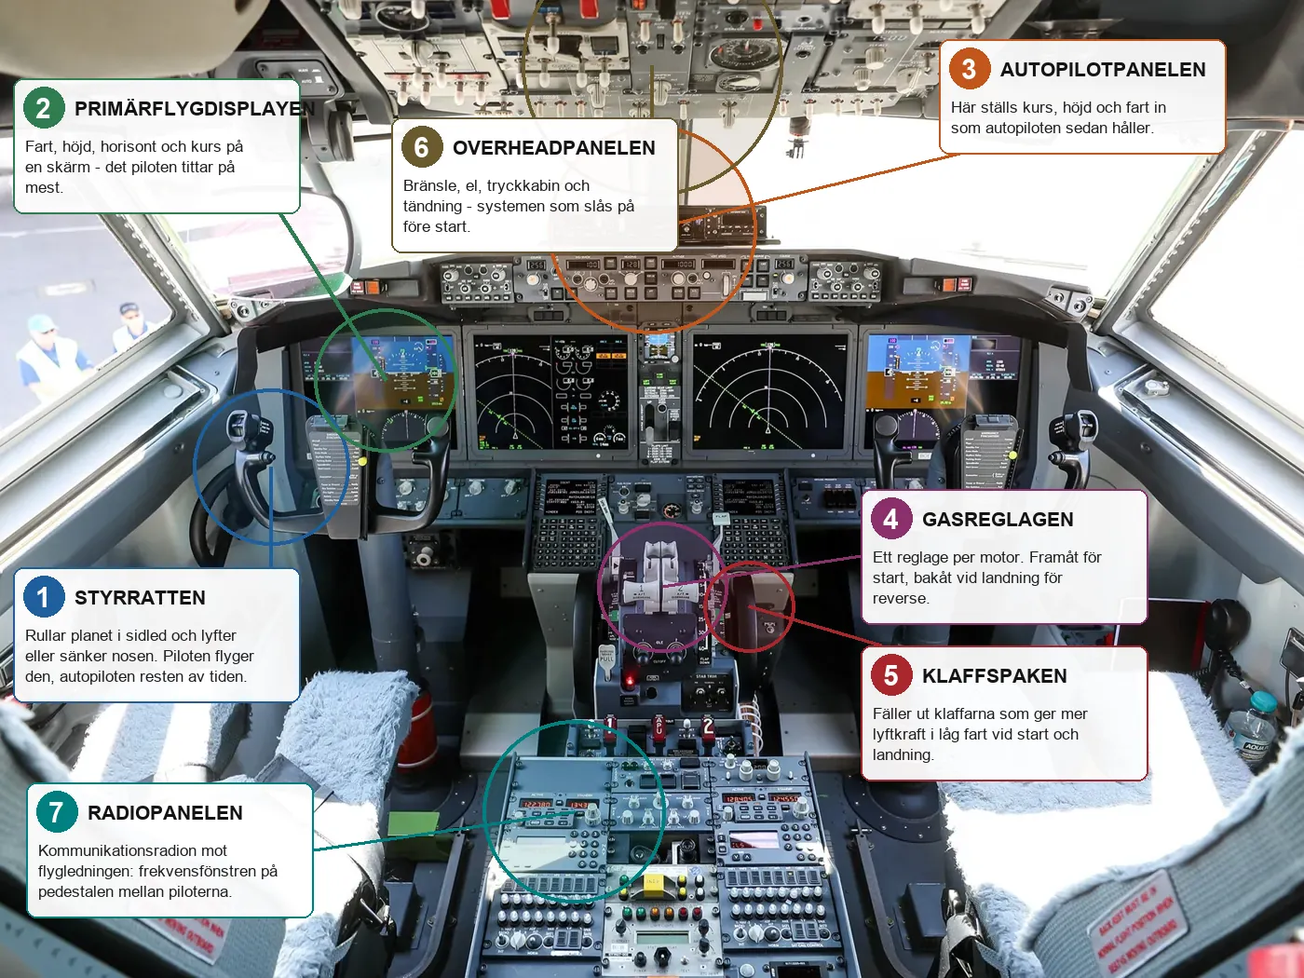
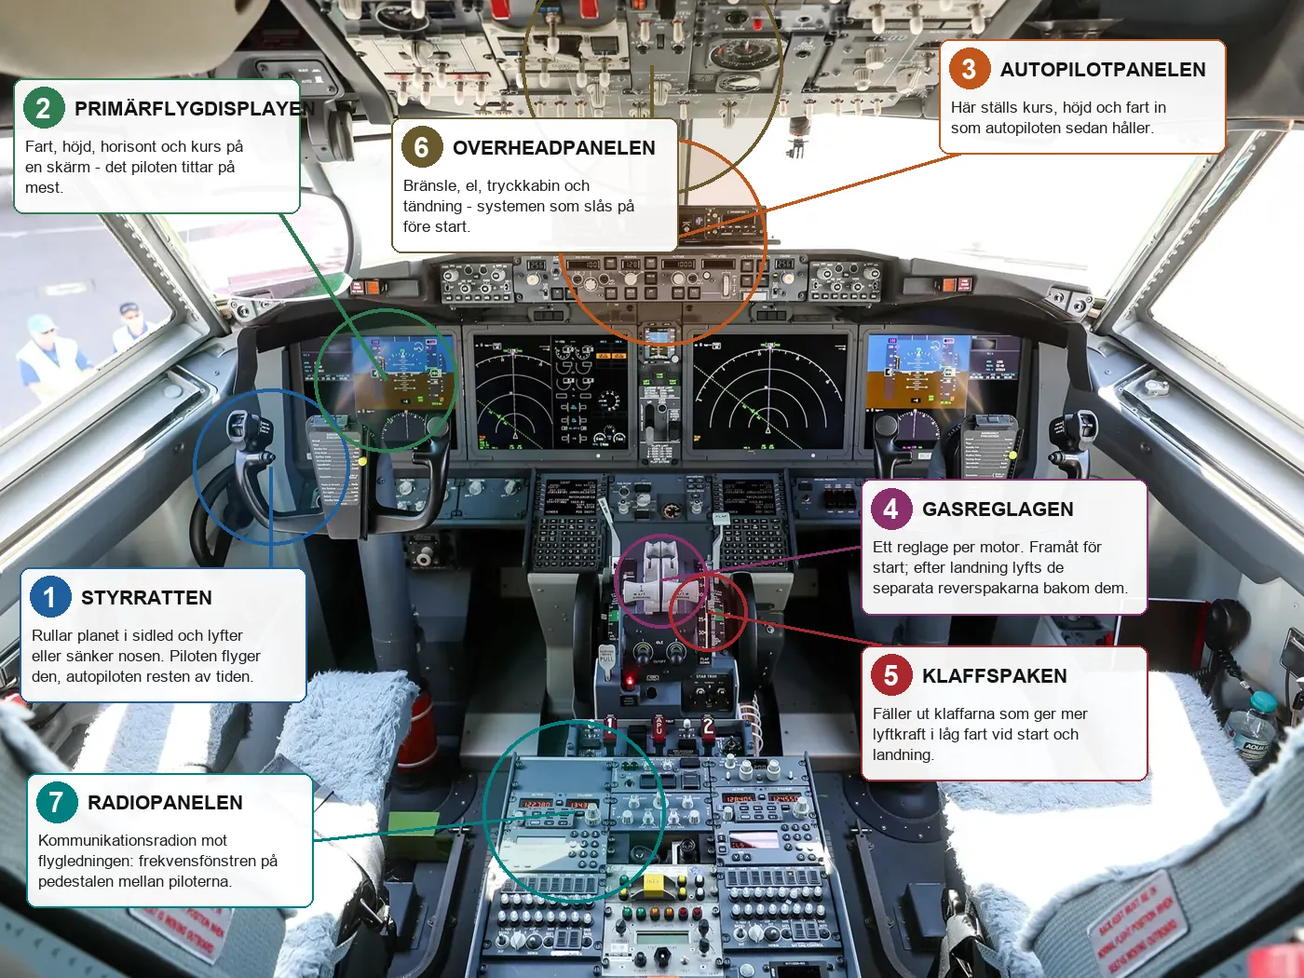
Pekspelen träffar rätt: tåghyttens punkter beskriver det som faktiskt sitter där, klaffspaken flyttad till klaffkulissen, nya facitbilder; fem fotbollsspelare kan nu vara rätt svar
Claude-Session: https://claude.ai/code/session_01W17UfEYKZqTsviz1FMLvRY

diff --git a/src/data/jobs.ts b/src/data/jobs.ts
@@ -416,22 +416,22 @@ export const JOBS: Job[] = [
           { id: 'korreglage', namn: 'Körreglaget', x: 64.6, y: 56.2, r: 6, forklaring: 'Det stora reglaget på höger sida styr tågets dragkraft och acceleration.' },
           { id: 'bromsreglage', namn: 'Bromsreglaget', x: 33.2, y: 55.7, r: 5.5, forklaring: 'Reglaget på vänster sida bromsar tåget och reglerar bromsningen.' },
           { id: 'forardisplay', namn: 'Förardisplayen', x: 70, y: 44, r: 7.5, forklaring: 'Den stora mörka skärmen framför föraren visar status och information om tågets system.' },
-          { id: 'dorrkontroller', namn: 'Dörrkontrollerna', x: 9.5, y: 60, r: 6, forklaring: 'Knapparna på vänster sida av panelen öppnar, stänger och kontrollerar tågdörrarna.' },
-          { id: 'tagskydd', namn: 'Tågskyddssystemet', x: 15.5, y: 52, r: 5, forklaring: 'Den mindre displayen med knappsats hjälper föraren att övervaka körningen och följa säkerhetssystemets krav.' },
-          { id: 'pantograf', namn: 'Strömförsörjningskontrollerna', x: 93, y: 59, r: 7.5, forklaring: 'Reglagen och indikeringarna på höger sida hanterar och övervakar tågets elektriska kraftförsörjning, till exempel strömavtagaren.' },
+          { id: 'hastighetsmatare', namn: 'Hastighetsmätaren', x: 45.4, y: 44.4, r: 5, forklaring: 'Visaren och den digitala siffran mitt i panelen visar farten. Signalerna gäller ändå, men här läser du av dem.' },
+          { id: 'tagskydd', namn: 'Tågskyddssystemet', x: 56.5, y: 40.5, r: 5, forklaring: 'Den grå panelen med lampor och kvitteringsknapp larmar om du kör mot stopp eller för fort, och bromsar själv om du inte svarar.' },
+          { id: 'motorstart', namn: 'Motorpanelen', x: 94, y: 58, r: 6, forklaring: 'Knapparna märkta ENGINE startar och stoppar dieselmotorn. Det här tåget har ingen strömavtagare - kraften kommer från motorn under golvet.' },
         ],
         fragor: [
           { text: 'Var är bromsen?', svar: 'bromsreglage' },
           { text: 'Tåget ska iväg. Var ger du dragkraft?', svar: 'korreglage' },
-          { text: 'Öppna dörrarna. Var sitter kontrollerna?', svar: 'dorrkontroller' },
+          { text: 'Hur fort går tåget just nu? Var läser du av det?', svar: 'hastighetsmatare' },
           { text: 'Var ser föraren tågets status och systeminformation?', svar: 'forardisplay' },
-          { text: 'Var övervakas att föraren följer säkerhetssystemets krav?', svar: 'tagskydd' },
-          { text: 'Strömavtagaren ska upp. Var hanteras kraftförsörjningen?', svar: 'pantograf' },
+          { text: 'Du passerar en signal för fort. Vilken panel larmar och bromsar?', svar: 'tagskydd' },
+          { text: 'Motorn ska startas inför avgång. Var gör du det?', svar: 'motorstart' },
         ],
       },
     },
     scene:
-      'Hytten är tyst så när som på ATC-pipet. Nästa signal om fyra kilometer, och den är gul.',
+      'Hytten är tyst så när som på säkerhetssystemets pip. Nästa signal om fyra kilometer, och den är gul.',
   },
   {
     id: 'taxichauffor',
@@ -1821,7 +1821,7 @@ export const JOBS: Job[] = [
     minigame: {
       kind: 'lagval',
       title: 'Rätt spelare i rätt landslag',
-      brief: 'Flaggan visar landslaget. Fyra spelare står ovanför. Peka ut den som spelar för det laget.',
+      brief: 'Flaggan visar landslaget. Fyra spelare står ovanför. Peka ut den som spelar eller har spelat för det landslaget.',
       items: ['Landslagen'],
       lagval: {
         antal: 8,
@@ -1895,6 +1895,11 @@ export const JOBS: Job[] = [
           { lag: 'flagga-sverige', ratt: 'fotboll-kulusevski', fel: ['fotboll-eriksen', 'fotboll-haaland', 'fotboll-rooney'] },
           { lag: 'flagga-spanien', ratt: 'fotboll-xavi', fel: ['fotboll-ronaldinho', 'fotboll-pirlo', 'fotboll-figo'] },
           { lag: 'flagga-england', ratt: 'fotboll-rooney', fel: ['fotboll-kulusevski', 'fotboll-neuer', 'fotboll-eriksen'] },
+          { lag: 'flagga-sverige', ratt: 'fotboll-ljungberg', fel: ['fotboll-beckham', 'fotboll-eriksen', 'fotboll-vandijk'] },
+          { lag: 'flagga-frankrike', ratt: 'fotboll-henry', fel: ['fotboll-rooney', 'fotboll-larsson', 'fotboll-figo'] },
+          { lag: 'flagga-portugal', ratt: 'fotboll-figo', fel: ['fotboll-xavi', 'fotboll-zidane', 'fotboll-pirlo'] },
+          { lag: 'flagga-italien', ratt: 'fotboll-pirlo', fel: ['fotboll-iniesta', 'fotboll-henry', 'fotboll-ronaldinho'] },
+          { lag: 'flagga-brasilien', ratt: 'fotboll-ronaldinho', fel: ['fotboll-messi', 'fotboll-figo', 'fotboll-iniesta'] },
         ],
       },
     },
@@ -1943,7 +1948,7 @@ export const JOBS: Job[] = [
         { text: 'Jag väntar på mitt flyg. Var kan jag sitta ner?', svar: 'station-flyg-1', nastan: ['station-flyg-2', 'sakerhetskontroll', 'bagageband'], fel: 'Där får man inte sitta. Där får man stå i kö.' },
         { text: 'Jag skulle egentligen ta tåget. Var går tågen?', svar: 'station-tag-1', nastan: ['station-flyg-1', 'station-buss-1', 'station-flyg-4'], fel: 'Det gick inga tåg därifrån. Bara plan.' },
         { text: 'Var hittar jag bussarna in till stan?', svar: 'station-buss-1', nastan: ['station-tag-1', 'gate', 'station-flyg-4'], fel: 'Det var inga bussar. Det var ett plan, och det körde inte in till stan.' },
-        { text: 'Jag ska byta i London. Den största flygplatsen där, den med fem terminaler.', svar: 'heathrow', nastan: ['arlanda', 'kontrolltorn', 'station-flyg-4'], fel: 'Därifrån går inget till London. Jag står kvar.' },
+        { text: 'Jag ska byta i London. Den största av stadens flygplatser, den i väster.', svar: 'heathrow', nastan: ['arlanda', 'kontrolltorn', 'station-flyg-4'], fel: 'Därifrån går inget till London. Jag står kvar.' },
       ],
     },
     scene:
@@ -2197,7 +2202,7 @@ export const JOBS: Job[] = [
         { text: 'Jag fick växel i Tokyo och vet inte vad myntet kallas.', svar: 'yenmynt', nastan: ['guldtackor', 'dollarsedlar', 'eurosedlar'], fel: 'Det där får man inte i växel någonstans.' },
         { text: 'Var sitter Sveriges centralbank?', svar: 'riksbanken', nastan: ['bankofengland', 'nyse', 'wallstreet'], fel: 'Det är rätt sorts hus. Fel land.' },
         { text: 'Den gamla damen på Threadneedle Street, Englands centralbank.', svar: 'bankofengland', nastan: ['riksbanken', 'nyse', 'borskrasch1929'], fel: 'Fel land. Damen bor inte där.' },
-        { text: 'Skyskraporna uppifrån. Jag vill köpa våning åttio.', svar: 'manhattan', nastan: ['wallstreet', 'nyse', 'borsgolv'], fel: 'Det finns ingen våning åttio där. Det finns knappt en våning två.' },
+        { text: 'Ön där bankerna har sina huvudkontor. Jag vill köpa våning åttio.', svar: 'manhattan', nastan: ['wallstreet', 'nyse', 'borsgolv'], fel: 'Det finns ingen våning åttio där. Det finns knappt en våning två.' },
       ],
     },
     scene:
@@ -3050,7 +3055,7 @@ export const JOBS: Job[] = [
           { q: 'Vilken druva ger de stora röda vinerna i Bourgogne?', bild: 'rodvin', a: ['Pinot noir', 'Cabernet sauvignon', 'Syrah', 'Merlot'], d: 2, info: 'Pinot noir är tunnskalig och lynnig. I Bordeaux är det cabernet och merlot som gäller, i Rhône syrah.' },
           { q: 'Vad betyder det att ett vin är torrt?', bild: 'vitvin', a: ['Nästan allt socker har jäst till alkohol', 'Det har lagrats på ekfat', 'Det har hög syra', 'Det är gjort på torkade druvor'], d: 1, info: 'Jästen äter sockret. Stoppas jäsningen tidigt blir det kvar - då är vinet halvtorrt eller sött.' },
           { q: 'Vid vilken temperatur bör ett fylligt rött vin serveras?', bild: 'dekanter', a: ['Omkring 16-18 grader', 'Omkring 8 grader', 'Rumstemperatur, 22 grader', 'Omkring 12 grader'], d: 2, info: '"Rumstemperatur" är en regel från tiden då rum var kallare. Ett rött vin på 22 grader smakar sprit.' },
-          { q: 'Vad är korkfel, det man kontrollerar när sommeliern luktar på korken?', bild: 'kork', a: ['Ämnet TCA från korken ger mögel- och källardoft', 'Korken har torkat och släppt in luft', 'Vinet har frusit', 'Korken smulas sönder'], d: 2, info: 'Trikloranisol känns i ofattbart små mängder. Skruvkork infördes bland annat för att slippa det - inte för att vinet är billigt.' },
+          { q: 'Vad är korkfel, det man letar efter när man luktar på vinet?', bild: 'kork', a: ['Ämnet TCA från korken ger mögel- och källardoft', 'Korken har torkat och släppt in luft', 'Vinet har frusit', 'Korken smulas sönder'], d: 2, info: 'Trikloranisol känns i ofattbart små mängder, och känns i vinet - att lukta på korken är mest ritual. Skruvkork infördes bland annat för att slippa TCA, inte för att vinet är billigt.' },
           { q: 'Hur får champagne sina bubblor?', bild: 'champagne', a: ['En andra jäsning i flaskan', 'Kolsyra pumpas in', 'Druvorna skördas ofärdiga', 'Vinet lagras i tryckkärl'], d: 2, info: 'Metoden kallas traditionell: socker och jäst tillsätts i flaskan, som sedan roteras och fryses i halsen för att få ut fällningen.' },
           { q: 'Varför dekanterar man ett ungt, kraftigt rödvin?', bild: 'dekanter', a: ['Luften mjukar upp tanninerna och lyfter doften', 'För att kyla det', 'För att ta bort alkohol', 'För att blanda in vatten'], d: 2, info: 'Gamla viner dekanteras av en annan orsak: för att skilja vinet från fällningen. Då försiktigt, inte för luft.' },
           { q: 'Vad heter det italienska vinet från Piemonte på nebbiolodruvan, ofta kallat vinernas kung?', bild: 'vindruvor', a: ['Barolo', 'Chianti', 'Amarone', 'Prosecco'], d: 2, info: 'Barolo måste lagras minst 38 månader. Chianti är Toscana och sangiovese, Amarone Veneto på torkade druvor.' },
@@ -3115,7 +3120,7 @@ export const JOBS: Job[] = [
       kind: 'lagval',
       title: 'Rätt spelare i rätt lag',
       brief:
-        'Lagmärket står i mitten och fyra spelare väntar ovanför. Vem av dem hör hemma i laget? Svenska och nordamerikanska lag om vartannat, ingen klocka.',
+        'Lagmärket står i mitten och fyra spelare väntar ovanför. Vem av dem hör hemma i laget? Mest NHL-märken, med tre svenska klubbar bland dem, ingen klocka.',
       items: ['Laguppställningen'],
       lagval: {
         antal: 8,
@@ -3221,7 +3226,7 @@ export const JOBS: Job[] = [
         { text: 'De vita bussarna. Mördad i Jerusalem som FN:s medlare.', svar: 'folkebernadotte', nastan: ['raoulwallenberg', 'daghammarskjold', 'carlbildt'], fel: 'Han där har inte kört buss. Möjligen åkt.' },
         { text: 'Generalsekreteraren från Ghana. Fredspris 2001, tillsammans med hela FN.', svar: 'kofiannan', nastan: ['bankimoon', 'guterres', 'janeliasson'], fel: 'Ghana, sa jag. Han där är inte ens från rätt kontinent.' },
         { text: 'Generalsekreteraren från Sydkorea, före den nuvarande.', svar: 'bankimoon', nastan: ['kofiannan', 'guterres', 'hansblix'], fel: 'Sydkorea. Titta på gästlistan igen.' },
-        { text: 'Generalsekreterare 2017–2026. Portugis, förre premiärminister, tog över efter koreanen.', svar: 'guterres', nastan: ['kofiannan', 'bankimoon', 'carlbildt'], fel: 'Han där sitter inte i FN-skrapan. Han sitter mest i tv-soffor.' },
+        { text: 'Generalsekreterare sedan 2017. Portugis, förre premiärminister, tog över efter koreanen.', svar: 'guterres', nastan: ['kofiannan', 'bankimoon', 'carlbildt'], fel: 'Han där sitter inte i FN-skrapan. Han sitter mest i tv-soffor.' },
         { text: 'Smög till Peking 1971 med låtsad magsjuka. Nixons säkerhetsrådgivare, tysk brytning.', svar: 'kissingermao', nastan: ['hansblix', 'janeliasson', 'carlbildt'], fel: 'Ingen tysk brytning. Ingen hemlig resa. Fel.' },
         { text: 'Nedrustningsförhandlaren som fick fredspriset 1982. Gift med en nationalekonom.', svar: 'alvamyrdal', nastan: ['margotwallstrom', 'albright', 'raoulwallenberg'], fel: 'Inte en enda missil förhandlad. Fel gäst.' },
         { text: 'Utrikesminister, FN:s vice generalsekreterare och ordförande i generalförsamlingen. Göteborgare.', svar: 'janeliasson', nastan: ['carlbildt', 'hansblix', 'daghammarskjold'], fel: 'Inte göteborgare. Inte vice något heller.' },
@@ -3396,9 +3401,9 @@ export const JOBS: Job[] = [
         punkter: [
           { id: 'styrratt', namn: 'Styrratten', x: 20.8, y: 47.8, r: 6, forklaring: 'Rullar planet i sidled och lyfter eller sänker nosen. Piloten flyger den, autopiloten resten av tiden.' },
           { id: 'pfd', namn: 'Primärflygdisplayen', x: 29.6, y: 38.9, r: 5.5, forklaring: 'Fart, höjd, horisont och kurs på en skärm - det piloten tittar på mest.' },
-          { id: 'mcp', namn: 'Autopilotpanelen', x: 50, y: 23.5, r: 8, forklaring: 'Här ställs kurs, höjd och fart in som autopiloten sedan håller.' },
-          { id: 'gasreglage', namn: 'Gasreglagen', x: 50.8, y: 60, r: 5, forklaring: 'Ett reglage per motor. Framåt för start, bakåt vid landning för reverse.' },
-          { id: 'klaffspak', namn: 'Klaffspaken', x: 57.5, y: 62, r: 3.5, forklaring: 'Fäller ut klaffarna som ger mer lyftkraft i låg fart vid start och landning.' },
+          { id: 'mcp', namn: 'Autopilotpanelen', x: 50.8, y: 24.7, r: 8, forklaring: 'Här ställs kurs, höjd och fart in som autopiloten sedan håller.' },
+          { id: 'gasreglage', namn: 'Gasreglagen', x: 50.7, y: 59.4, r: 3.6, forklaring: 'Ett reglage per motor. Framåt för start; efter landning lyfts de separata reverspakarna bakom dem.' },
+          { id: 'klaffspak', namn: 'Klaffspaken', x: 54.3, y: 62.6, r: 3, forklaring: 'Fäller ut klaffarna som ger mer lyftkraft i låg fart vid start och landning.' },
           { id: 'overhead', namn: 'Overheadpanelen', x: 50, y: 6.7, r: 10, forklaring: 'Bränsle, el, tryckkabin och tändning - systemen som slås på före start.' },
           { id: 'radio', namn: 'Radiopanelen', x: 44, y: 83, r: 7, forklaring: 'Kommunikationsradion mot flygledningen: frekvensfönstren på pedestalen mellan piloterna.' },
         ],
@@ -3476,7 +3481,7 @@ export const JOBS: Job[] = [
           { bild: 'kantarell', namn: 'Kantarell', svar: 'atlig', info: 'Äggul, tjock, med gaffelgrenade åsar som löper ner på foten, doftar aprikos. Förväxlas med narrkantarell, som är orangeare och har tunna, riktiga skivor.' },
           { bild: 'karljohanpor', namn: 'Karljohan', svar: 'atlig', info: 'Brun hatt, tjock ljus fot med vitt nät upptill, vita till gulgröna porer, aldrig skivor. Förväxlas med gallsopp, som är ofarlig men förstör grytan med sin beska.' },
           { bild: 'trattkantarell2', namn: 'Trattkantarell', svar: 'atlig', info: 'Liten, gulbrun hatt med navel, ihålig gul fot och glesa åsar. Växer i mängd i mossig granskog sent på hösten. Se upp med toppig giftspindling på samma mark.' },
-          { bild: 'taggsvamp2', namn: 'Blek taggsvamp', svar: 'atlig', info: 'Gräddvit, ojämn hatt med mjuka taggar i stället för skivor på undersidan. Ingen giftig art har taggar - därför nybörjarens säkraste svamp.' },
+          { bild: 'taggsvamp2', namn: 'Blek taggsvamp', svar: 'atlig', info: 'Gräddvit, ojämn hatt med mjuka taggar i stället för skivor på undersidan. Ingen svensk taggsvamp är dödligt giftig - några är bara sträva att äta - därför nybörjarens säkraste grupp.' },
           { bild: 'smorsopp', namn: 'Smörsopp', svar: 'atlig', info: 'Brun, slemmig hatt under tall, ring på foten, gula porer. Ätlig sedan det hala skinnet dragits av. Kan ge lös mage om man är känslig.' },
           { bild: 'trumpetsvamp', namn: 'Rödgul trumpetsvamp', svar: 'atlig', info: 'Tunn, brun tratt på klargul, ihålig fot, nästan slät undersida. Växer i fuktig mossa och myrkanter. Liknar trattkantarellen och används på samma sätt.' },
           { bild: 'fjallskivling2', namn: 'Stolt fjällskivling', svar: 'atlig', info: 'Stor, brun fjällig hatt på hög fot med ormskinnsmönster och lös ring som går att flytta. Hatten under tio centimeter kan vara en giftig liten fjällskivling.' },

diff --git a/src/data/uppdrag.ts b/src/data/uppdrag.ts
@@ -24,17 +24,17 @@ export const UPPDRAG: Uppdrag[] = [
   { id: 'dovkatt', titel: 'En döv katt', text: 'Jag vill att du lämnar min döva katt till min syster i {stad}. Hon hör inget, så hon klagar inte. Katten alltså. Du får {belopp} för besväret.', foremal: 'En döv katt i korg', belopp: 5000, dagar: 14, klar: 'Systern tar emot korgen utan ett ord. Katten ser inte förvånad ut. Ingen av dem gör det.' },
   { id: 'surdeg', titel: 'Surdegen', text: 'Min surdeg är från 1987 och måste matas var tredje dag. Min bror i {stad} har mjölet. Ta med den, mata den, lämna den. {belopp}, och du får en bit när den är bakad.', foremal: 'En surdeg från 1987', belopp: 3200, dagar: 12, klar: 'Brodern luktar på burken och nickar. "Hon lever." Du får en brödbit och pengarna, i den ordningen.' },
   { id: 'urna', titel: 'Farfar', text: 'Det här är farfar. Han ville alltid se {stad}, men kom aldrig iväg. Ställ honom på ett café med utsikt och sitt en stund. {belopp}. Han bjuder.', foremal: 'En urna med farfar', belopp: 4000, klar: 'Du sitter en halvtimme med urnan på bordet. Servitrisen frågar inget. Farfar hade gillat det.' },
-  { id: 'nyckel', titel: 'Nyckeln', text: 'Den här nyckeln går till en dörr i {stad}. Jag minns inte vilken. Lämna den till receptionen på Grand Hotel, de vet. {belopp}. Fråga inte vad som finns bakom dörren. Jag vet inte heller.', foremal: 'En nyckel till en okänd dörr', belopp: 2800, klar: 'Receptionisten tar nyckeln, tittar på den länge och säger "äntligen". Sedan inget mer.' },
+  { id: 'nyckel', titel: 'Nyckeln', text: 'Den här nyckeln går till en dörr i {stad}. Jag minns inte vilken. Lämna den i receptionen på stadens äldsta hotell, de vet. {belopp}. Fråga inte vad som finns bakom dörren. Jag vet inte heller.', foremal: 'En nyckel till en okänd dörr', belopp: 2800, klar: 'Receptionisten tar nyckeln, tittar på den länge och säger "äntligen". Sedan inget mer.' },
   { id: 'brev', titel: 'Ett brev', text: 'Ett brev till en kvinna i {stad}. Handskrivet, inget frimärke, ingen adress. Hon heter Margit och sitter oftast på bänken vid stationen. {belopp}. Läs det inte. Jag har redan läst det.', foremal: 'Ett brev till Margit', belopp: 3500, dagar: 10, klar: 'Margit sitter på bänken. Hon läser brevet två gånger, viker ihop det och säger "han har alltid stavat fel". Pengarna ligger i ett kuvert under bänken.' },
   { id: 'kaktus', titel: 'Kaktusen', text: 'Min kaktus tål inte klimatet här. Den mår bättre i {stad}, säger min veterinär, som egentligen är tandläkare. Ta den dit. {belopp}. Vattna inte. Vad du än gör: vattna inte.', foremal: 'En kaktus som inte får vatten', belopp: 2400, klar: 'Kaktusen står i ett fönster i {stad} nu. Den ser likadan ut. Det är poängen med kaktusar.' },
   { id: 'schack', titel: 'Draget', text: 'Jag spelar schack per bud med en man i {stad} sedan 1994. Det är hans tur, men han litar inte på posten. Lämna det här draget personligen: springare f3. {belopp}. Han bjuder på te. Tacka nej till teet.', foremal: 'Ett schackdrag, springare f3', belopp: 3000, klar: 'Mannen tittar på lappen i tio minuter, säger "intressant" och bjuder på te. Du tackar nej. Han ser lättad ut.' },
-  { id: 'stol', titel: 'Stolen', text: 'Min mormors stol ska tillbaka till {stad}, där hon köpte den 1961. Den går att fälla ihop, nästan. {belopp}, för den är tung och du kommer att svära.', foremal: 'En hopfällbar stol som nästan går att fälla', belopp: 6000, dagar: 16, klar: 'Antikhandlaren i {stad} känner igen stolen. "Den här såldes härifrån 1961", säger han, "och ni har haft den sedan dess?" Han köper tillbaka den för priset du får.' },
+  { id: 'stol', titel: 'Stolen', text: 'Min mormors stol ska tillbaka till {stad}, där hon köpte den 1961. Den går att fälla ihop, nästan. {belopp}, för den är tung och du kommer att svära.', foremal: 'En hopfällbar stol som nästan går att fälla', belopp: 6000, dagar: 16, klar: 'Antikhandlaren i {stad} känner igen stolen. "Den här såldes härifrån 1961", säger han. Han ställer den i skyltfönstret, där den stod från början, och betalar ut vad han lovat.' },
   { id: 'papegoja', titel: 'Papegojan', text: 'Papegojan har lärt sig ett ord jag inte kan ha i huset. Min kusin i {stad} tycker att ordet är roligt. Lämna den där. {belopp}. Täck buren när ni passerar tullen.', foremal: 'En papegoja med ett ord', belopp: 4500, dagar: 12, klar: 'Kusinen lyfter täcket. Papegojan säger ordet. Kusinen skrattar så hen får hosta. Ni är alla överens om att det var värt det.' },
   { id: 'bok', titel: 'Bokens sista exemplar', text: 'Det här är sista exemplaret av min diktsamling. Biblioteket i {stad} har beställt det, sedan 2009. Ta det dit innan de ändrar sig. {belopp}. Läs gärna, men inte högt.', foremal: 'Sista exemplaret av en diktsamling', belopp: 2600, klar: 'Bibliotekarien i {stad} letar i datorn i fem minuter. "Ja. 2009. Vi hade nästan gett upp." Boken får en egen hylla, för den är den enda.' },
-  { id: 'paraply', titel: 'Paraplyet', text: 'Jag lånade det här paraplyet av en främling i {stad} för elva år sedan. Hon sa "lämna tillbaka det när du kan". Jag kan nu. Hon står i tobaksaffären vid torget. {belopp}, och min nattsömn.', foremal: 'Ett paraply, lånat 2015', belopp: 2200, klar: 'Kvinnan i tobaksaffären tittar på paraplyet. "Det där är inte mitt." Ni tittar på varandra. Hon tar det ändå. Du får pengarna av dig själv, i förskott, av uppdragsgivaren.' },
+  { id: 'paraply', titel: 'Paraplyet', text: 'Jag lånade det här paraplyet av en främling i {stad} för länge sedan. Hon sa "lämna tillbaka det när du kan". Jag kan nu. Hon står i tobaksaffären vid torget. {belopp}, och min nattsömn.', foremal: 'Ett paraply, lånat av en främling', belopp: 2200, klar: 'Kvinnan i tobaksaffären tittar på paraplyet. "Det där är inte mitt." Ni tittar på varandra. Hon tar det ändå, och räcker dig kuvertet som legat bakom kassan i alla år.' },
   { id: 'kortlek', titel: 'Spader dam', text: 'Kortleken saknar spader dam. Den ligger hos en man i {stad} som förlorade den i ett vad. Hämta inte. Lämna resten av leken hos honom, så är den hel igen. {belopp}. Han kommer att erbjuda dig ett vad. Tacka nej.', foremal: 'En kortlek utan spader dam', belopp: 3100, klar: 'Mannen lägger spader dam överst i leken och ler. "Vill du slå vad om något?" Du tackar nej. Han ser ut att ha förväntat sig det.' },
   { id: 'glasogon', titel: 'Läsglasögonen', text: 'Min mans läsglasögon ligger kvar i {stad} sedan vår resa. Han har inte kunnat läsa tidningen på tre veckor, och det märks. Hämta dem inte, de är inte där. Lämna det här nya paret hos hotellet, så att de finns där nästa gång. {belopp}.', foremal: 'Ett par läsglasögon, +2,5', belopp: 2000, klar: 'Hotellet i {stad} lägger glasögonen i hittegodslådan. Där ligger redan tre par med samma styrka. Du säger inget.' },
   { id: 'recept', titel: 'Receptet', text: 'Receptet på min mormors köttbullar får inte skrivas ner. Jag ska berätta det för dig, och du ska berätta det för min dotter i {stad}. Lyssna noga. Muskot. Inte för mycket. {belopp}.', foremal: 'Ett recept i huvudet, med muskot', belopp: 3800, dagar: 9, klar: 'Dottern lyssnar, nickar, och säger "hon sa kryddpeppar till mig". Ni bestämmer er för att mormor sa olika saker till olika barn. Pengarna kommer ändå.' },
-  { id: 'sten', titel: 'Stenen', text: 'Jag tog den här stenen från stranden i {stad} som barn. Nu drömmer jag om den varje natt. Lägg tillbaka den. Det spelar ingen roll var på stranden, men det ska vara samma strand. {belopp}.', foremal: 'En sten som ska hem', belopp: 2900, klar: 'Du lägger stenen på stranden i {stad}. Den ser ut som de andra stenarna. Det är nog tanken. Kvällen efter sover en människa gott, på annat håll.' },
-  { id: 'svar', titel: 'Svaret', text: 'En man i {stad} ställde en fråga till mig 1998. Jag har svaret nu. Det är "ja". Säg det till honom. Han heter Bertil och driver kiosken vid hamnen. {belopp}. Säg inget mer än ja.', foremal: 'Ett ja, till Bertil', belopp: 3300, klar: 'Bertil hör ordet, stänger kiosken mitt på dagen och går hem. Du får pengarna av den som skickade dig. Vad frågan var får du aldrig veta.' },
+  { id: 'sten', titel: 'Stenen', text: 'Jag tog den här stenen med mig från {stad} som barn. Nu drömmer jag om den varje natt. Lägg tillbaka den. Det spelar ingen roll var, men det ska vara i staden. {belopp}.', foremal: 'En sten som ska hem', belopp: 2900, klar: 'Du lägger stenen på marken i {stad}. Den ser ut som alla andra stenar. Det är nog tanken. Kvällen efter sover en människa gott, på annat håll.' },
+  { id: 'svar', titel: 'Svaret', text: 'En man i {stad}, {land}, ställde en fråga till mig 1998. Jag har svaret nu. Det är "ja". Säg det till honom. Han heter Bertil och driver kiosken vid hamnen. {belopp}. Säg inget mer än ja.', foremal: 'Ett ja, till Bertil', belopp: 3300, klar: 'Bertil hör ordet, stänger kiosken mitt på dagen och går hem. Du får pengarna av den som skickade dig. Vad frågan var får du aldrig veta.' },
 ];
